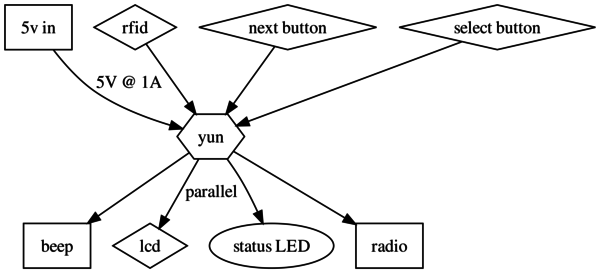
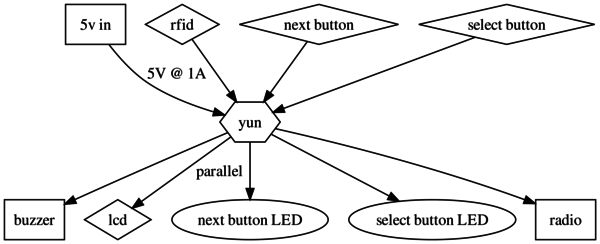
docs

diff --git a/README.md b/README.md
@@ -2,12 +2,11 @@
 
 A system for logging usage and allowing inducted users to turn power up various machines.
 
-Valid inducted users are fetched from a google spreadsheet once per day.
+Valid inducted users are fetched from a list once per day.
 
 Inducted users use their RFID cards to turn on power to the connected machines.
 
-Usage time is logged to a google spreadsheet for maintenance and billing
-purposes.
+Usage time is logged for maintenance and billing purposes.
 
 Power is controlled via 433MHz remote mains power sockets.
 
@@ -15,8 +14,8 @@ Power is controlled via 433MHz remote mains power sockets.
 
 ## Design decisions
 
-* Presenting an inducted user's RFID card will turn on or off the SSR.
-* If a new user is detected while machine is on, finish previous user's session and start a new one.
+* Presenting an inducted user's RFID card will authenticate.
+* Simple menu system to scroll through available tools and start/stop them.
 * Never switch off/time out the connected machine in case it's a long job.
 * Pull validated users once per day and store locally in case internet is unavailable.
 * If internet is unavailable discard usage logging. Possible to add a queue later.
@@ -25,16 +24,9 @@ Power is controlled via 433MHz remote mains power sockets.
 
 ![software](software/software.png)
 
-## Beeper
-
-* a session starts or ends.
-* RFID invalid user
-
-## LEDs
-
-Green LED for system status OK
-
 ## LCD messages & Menu
+
+Menu is driven by 2 illuminated buttons: next and select.
 
 Display after inactive for 5 seconds
 
@@ -54,25 +46,25 @@ user Matt recognised
     user: matt
     press next for tools
 
-down button pressed - shows a tool ready to start
+next button pressed - shows a tool ready to start
 
     --------------------
     1: lathe    inducted  
     select to start
 
-down button pressed  -showing Nic is already using machine for 1 hour 21 secs
+next button pressed  -showing Nic is already using machine for 1 hour 21 secs
 
     --------------------
     2: mill     inducted
     nic         00:01:21
 
-down button pressed - showing router is currently unavailable, with webpage for details
+next button pressed - showing router is currently unavailable, with webpage for details
 
     --------------------
     3: router   offline
     goto: ven.nz/1RFvu9s
 
-down button pressed - showing laser cutter, not inducted and webpage for detils
+next button pressed - showing laser cutter, not inducted and webpage for detils
 
     --------------------
     4: laser    noinduct
@@ -96,18 +88,31 @@ select button pressed - showing option 1 again
     1: lathe    inducted  
     select to start
 
+## Beeper
+
+Beep when:
+
+* RFID is read
+* Button is pressed
+
+## LEDs
+
+Both buttons have green leds. 
+
+* Next button illuminated when valid user present
+* Select button illuminated when a choice is allowed
+
 # Electrical
 
 ## Bill of Materials
 
 * [Arduino Yun Mini]() - [datasheet](datasheets/Arduino-yun-mini-schematics.pdf)
-* [10W 5V PSU](http://uk.rs-online.com/web/p/products/0327936/)
 * [RFID reader](http://uk.rs-online.com/web/p/products/6666625/) - [datasheet](http://docs-europe.electrocomponents.com/webdocs/0d16/0900766b80d1684b.pdf)
 * [LCD 2x20](http://uk.rs-online.com/web/p/products/7200222/) - [datasheet](http://docs-europe.electrocomponents.com/webdocs/0f25/0900766b80f25e5b.pdf)
 * [case](http://uk.rs-online.com/web/p/products/3648223/)
 * [433MHz ASK radio transmitter](http://uk.rs-online.com/web/p/lower-power-rf-modules/6172072/) - [datasheet](http://docs-europe.electrocomponents.com/webdocs/087d/0900766b8087d2df.pdf)
 * 2 [switches](http://uk.rs-online.com/web/p/push-button-switches/8207533/) - [datasheet](http://docs-europe.electrocomponents.com/webdocs/1388/0900766b8138874b.pdf)
-* [beeper](http://uk.rs-online.com/web/p/piezo-buzzer-components/7716910/) - [datasheet](http://docs-europe.electrocomponents.com/webdocs/1168/0900766b811685e8.pdf)
+* [buzzer](http://uk.rs-online.com/web/p/piezo-buzzer-components/7716910/) - [datasheet](http://docs-europe.electrocomponents.com/webdocs/1168/0900766b811685e8.pdf)
 
 ## Wiring
 
@@ -128,9 +133,9 @@ For interconnects, power and buzzer.
 All measurements in mm and stated as L x W x D
 
 * Yun + PCB = 70 x 85 x 10
-* LED = 12mm diameter
 * RFID = 62 x 82 x ?
 * LCD = 37 x 116 x ?
+* Buttons = 8 x 20
 
 Modelling the layout led to a case size of 280 x 120 x 90mm.
 But these dimensions didn't yield many cases! So I looked for some common sizes
